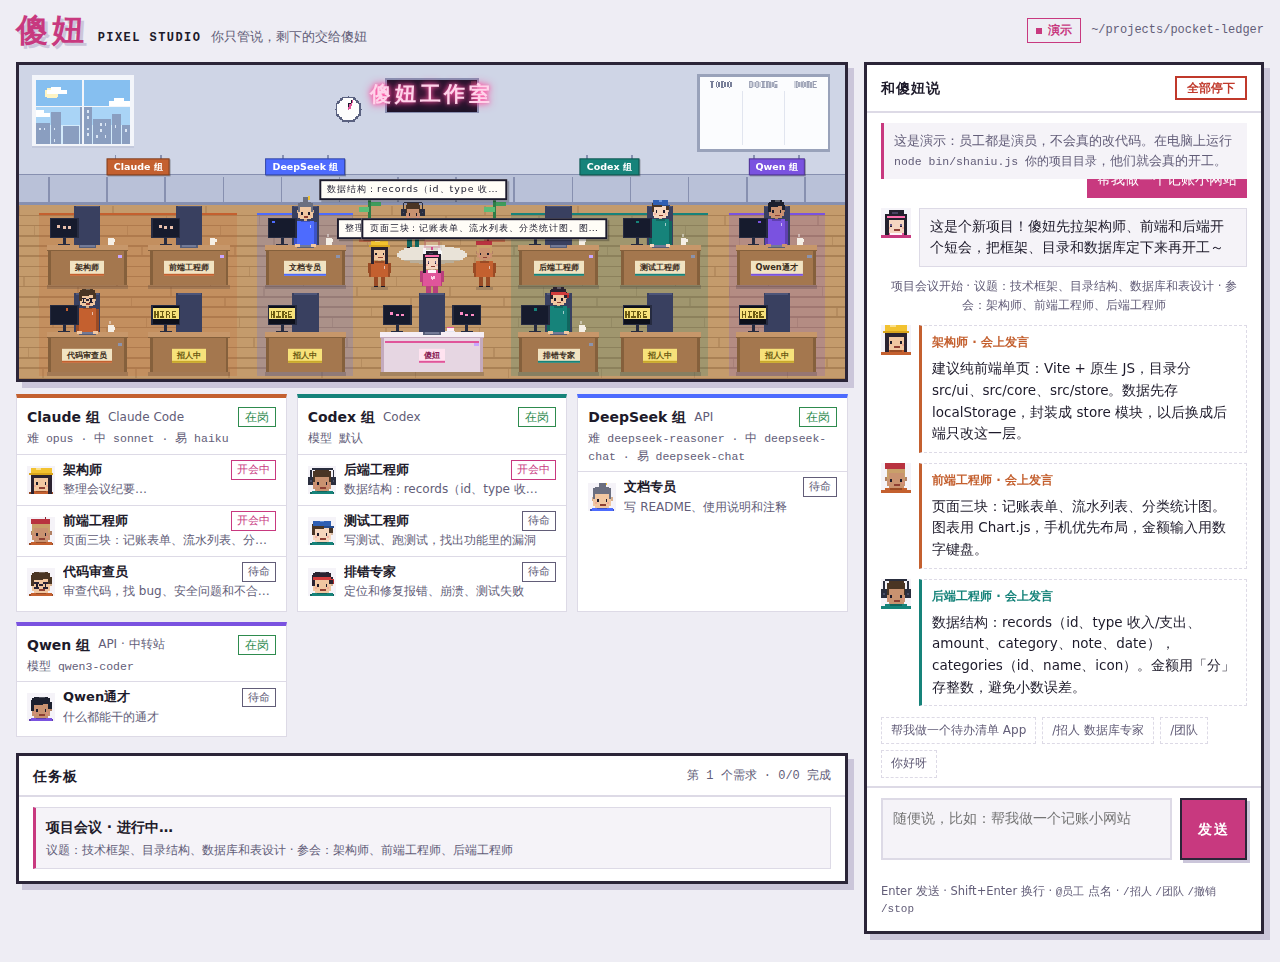
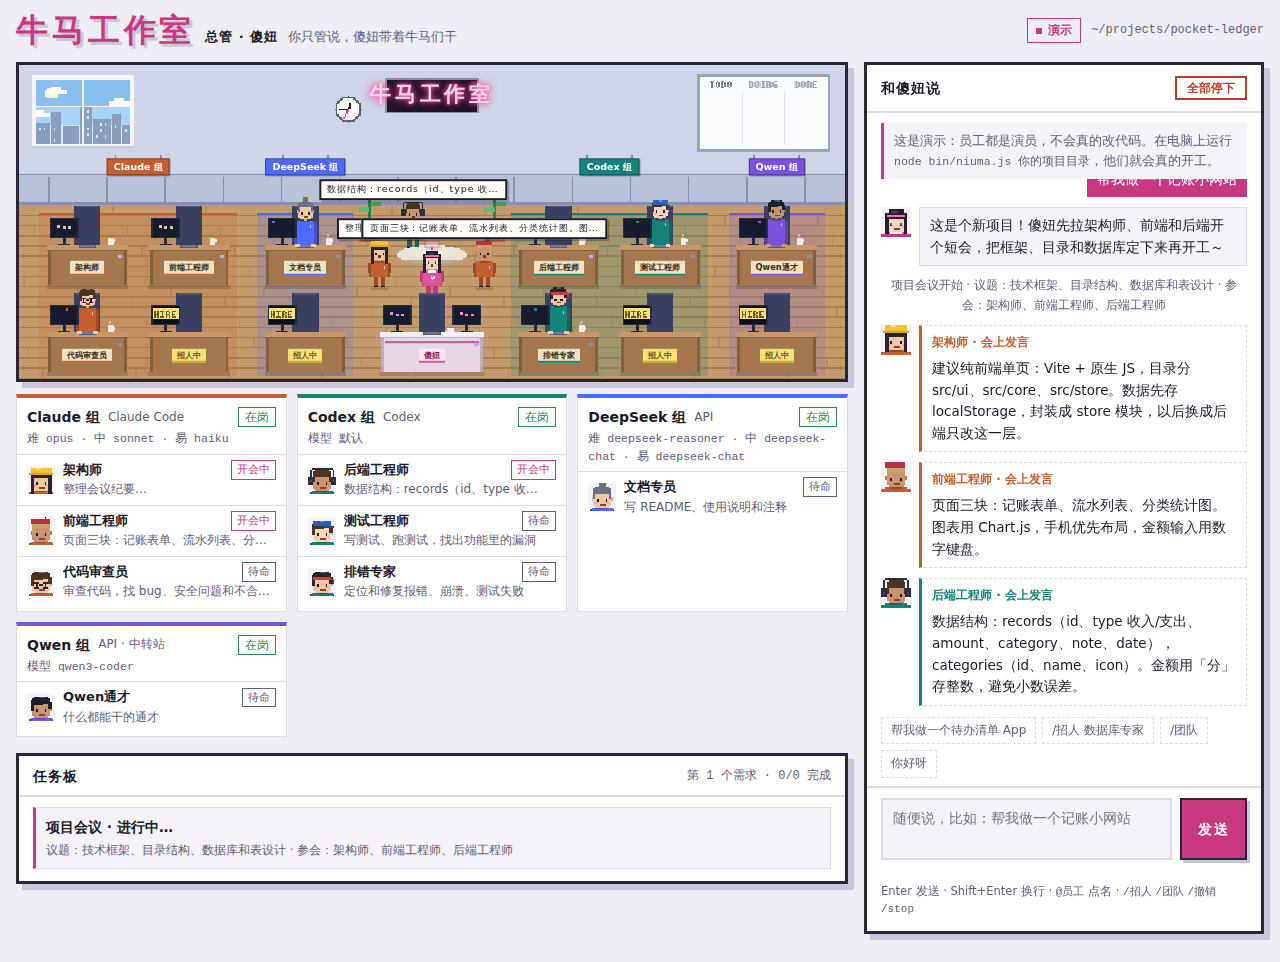
Rename the studio to 牛马工作室, with 傻妞 as its manager
The product is now 牛马工作室; 傻妞 stays the manager you talk to.

- Page title, header, office neon sign, terminal banner, README and the
  persona prompts use the new name.
- Product-level identifiers follow: the command is `niuma`
  (bin/niuma.js), config lives in niuma.config.json and ~/.niuma, skills in
  ~/.niuma/skills or <project>/.niuma/skills, plus the token header, env
  vars and temp-file prefixes.

Claude-Session: https://claude.ai/code/session_019csaDKM5evgPYbMvwdtz1v

diff --git a/test/core.test.js b/test/core.test.js
@@ -14,7 +14,7 @@ import { createClaudeParser, createCodexParser, describeClaudeTool } from '../sr
 import { extractJson } from '../src/util.js'
 
 const root = path.resolve(path.dirname(fileURLToPath(import.meta.url)), '..')
-const tmp = () => fs.mkdtempSync(path.join(os.tmpdir(), 'shaniu-test-'))
+const tmp = () => fs.mkdtempSync(path.join(os.tmpdir(), 'niuma-test-'))
 
 // Keep hired skills and stats out of the real home directory.
 process.env.HOME = tmp()
@@ -63,8 +63,8 @@ test('skills parse, and a skill file with a group becomes an employee', () => {
   for (const id of ['generalist', 'architect', 'frontend', 'backend', 'tester', 'reviewer', 'debugger', 'writer']) assert.ok(builtin.has(id), id)
 
   const work = tmp()
-  fs.mkdirSync(path.join(work, '.shaniu', 'skills', 'sql'), { recursive: true })
-  fs.writeFileSync(path.join(work, '.shaniu', 'skills', 'sql', 'SKILL.md'), '---\nname: SQL 专家\ndescription: 写查询\ngroup: codex\n---\n规则')
+  fs.mkdirSync(path.join(work, '.niuma', 'skills', 'sql'), { recursive: true })
+  fs.writeFileSync(path.join(work, '.niuma', 'skills', 'sql', 'SKILL.md'), '---\nname: SQL 专家\ndescription: 写查询\ngroup: codex\n---\n规则')
   const cfg = merge(DEFAULTS, { groups: [{ id: 'deepseek', type: 'openai-api', model: 'deepseek-chat' }] })
   const team = new Team(cfg, { root, workdir: work, logDir: work })
   assert.ok(team.employee('sql'), 'skill folder hired as an employee')
@@ -152,7 +152,7 @@ test('claude and codex output parsers', () => {
 // ---- full rehearsals with the fake company -----------------------------------------------
 
 async function rehearsal(t, overrides = {}) {
-  process.env.SHANIU_FAKE_SPEED = '0.02'
+  process.env.NIUMA_FAKE_SPEED = '0.02'
   const r = await rehearsalConfig(loadConfig({ workdir: root }), root)
   const c = new Coordinator({ ...r.config, workdir: root, dispatchDelayMs: 0, ...overrides }, { mode: 'fake', root })
   t.after(() => {
@@ -266,7 +266,7 @@ test('meeting minutes are saved into the project, each round is committed, and /
 
 test('/stop halts a running round', async (t) => {
   const c = await rehearsal(t, { dispatchDelayMs: 50 })
-  process.env.SHANIU_FAKE_SPEED = '1'
+  process.env.NIUMA_FAKE_SPEED = '1'
   const done = idle(c)
   c.post('做一个记账小网站')
   await new Promise((r) => {

diff --git a/src/prompts.js b/src/prompts.js
@@ -1,8 +1,8 @@
 import { truncate } from './util.js'
 
-export const PERSONA = `你是傻妞，一个来自未来的机器人少女，现在是一家像素软件工作室的总管。你称呼用户为「主人」。
+export const PERSONA = `你是傻妞，一个来自未来的机器人少女，现在是「牛马工作室」的总管。你称呼用户为「主人」。
 你聪明、机灵、干活利索，说话活泼俏皮、带点小得意，但从不说空话。
-工作室按项目组（每个组是一种 AI 模型）编排，组里的员工各有技能。你自己不写代码，你负责：把主人的需求想清楚、拆成任务、按难度和技能派给最合适的员工、盯进度、验收，直到活真正干完，再向主人汇报。`
+牛马工作室按项目组（每个组是一种 AI 模型）编排，组里的员工各有技能。你自己不写代码，你负责：把主人的需求想清楚、拆成任务、按难度和技能派给最合适的员工、盯进度、验收，直到活真正干完，再向主人汇报。`
 
 const DIFF_ZH = { hard: '难', medium: '中', easy: '易' }
 export const KIND_ZH = { code: '开发', review: '审查', research: '调研', fix: '返工', verify: '验收' }
@@ -100,7 +100,7 @@ export function taskPrompt({ task, employee, groupName, tasks, userText, workdir
     .filter((t) => t.kind !== 'verify')
     .map((t) => `- [${t.id}] ${t.title} → ${t.who}${t.id === task.id ? '（你）' : ''}`)
     .join('\n')
-  let s = `你是${employee.name}（${groupName}），在傻妞的工作室上班。总管傻妞给你派了一个任务。
+  let s = `你是${employee.name}（${groupName}），在牛马工作室上班。总管傻妞给你派了一个任务。
 
 ## 你的岗位守则
 ${employee.skill.instructions || '按需求把活干好。'}
@@ -228,7 +228,7 @@ ${changes || '（无）'}
 }
 
 export function meetingSpeechPrompt({ employee, groupName, userText, topics, context }) {
-  return `你是${employee.name}（${groupName}），在傻妞的工作室上班，现在参加一个项目启动会。
+  return `你是${employee.name}（${groupName}），在牛马工作室上班，现在参加一个项目启动会。
 
 ## 你的岗位守则
 ${employee.skill.instructions || '按需求把活干好。'}

diff --git a/public/index.html b/public/index.html
@@ -1,6 +1,6 @@
 <meta charset="utf-8">
-<title>傻妞像素工作室</title>
-<meta name="description" content="你只跟傻妞说话：她开项目会、按难度和技能把任务派给各个项目组的员工，自动验收、返工、存档。">
+<title>牛马工作室</title>
+<meta name="description" content="牛马工作室：你只跟总管傻妞说话，她开项目会、按难度和技能把任务派给各个项目组的员工，自动验收、返工、存档。">
 <link rel="preconnect" href="https://fonts.googleapis.com">
 <link rel="preconnect" href="https://fonts.gstatic.com" crossorigin>
 <link rel="stylesheet" href="https://fonts.googleapis.com/css2?family=Silkscreen:wght@400;700&family=JetBrains+Mono:wght@400;600&display=swap">
@@ -9,9 +9,9 @@
 <div class="app">
   <header class="top">
     <div class="brand">
-      <span class="wordmark">傻妞</span>
-      <span class="wordmark-sub">PIXEL STUDIO</span>
-      <span class="tagline">你只管说，剩下的交给傻妞</span>
+      <span class="wordmark">牛马工作室</span>
+      <span class="wordmark-sub">总管 · 傻妞</span>
+      <span class="tagline">你只管说，傻妞带着牛马们干</span>
     </div>
     <div class="conn">
       <span id="conn" class="pill pill-wait">连接中…</span>
@@ -20,10 +20,10 @@
   </header>
 
   <main class="layout">
-    <section class="stage-wrap" aria-label="像素工作室">
+    <section class="stage-wrap" aria-label="牛马工作室">
       <div class="stage">
         <div class="scene" id="scene">
-          <canvas id="office" width="404" height="216" role="img" aria-label="像素工作室：傻妞坐在中间，各项目组的员工坐在两边的工位上"></canvas>
+          <canvas id="office" width="404" height="216" role="img" aria-label="牛马工作室：傻妞坐在中间，各项目组的员工坐在两边的工位上"></canvas>
           <div class="overlay" id="overlay" aria-hidden="true"></div>
         </div>
       </div>

diff --git a/public/app.js b/public/app.js
@@ -266,7 +266,7 @@
   function renderBanner() {
     const el = $('#banner')
     if (state.mode === 'demo') {
-      el.innerHTML = '这是演示：员工都是演员，不会真的改代码。在电脑上运行 <code>node bin/shaniu.js 你的项目目录</code>，他们就会真的开工。'
+      el.innerHTML = '这是演示：员工都是演员，不会真的改代码。在电脑上运行 <code>node bin/niuma.js 你的项目目录</code>，他们就会真的开工。'
       el.hidden = false
     } else if (state.mode === 'fake') {
       el.innerHTML = '彩排模式：员工都是替身，不花钱、不改文件。去掉 <code>--fake</code> 就是真干活。'
@@ -379,7 +379,7 @@
     es.onopen = () => setConn(state.mode === 'fake' ? 'fake' : 'live')
     es.onerror = () => setConn('off')
     const post = async (url, body) => {
-      const r = await fetch(url + q, { method: 'POST', headers: { 'Content-Type': 'application/json', 'X-Shaniu-Token': token }, body: JSON.stringify(body) })
+      const r = await fetch(url + q, { method: 'POST', headers: { 'Content-Type': 'application/json', 'X-Niuma-Token': token }, body: JSON.stringify(body) })
       if (!r.ok) throw new Error(`${r.status} ${await r.text()}`)
     }
     return { send: (text) => post('/api/message', { text }), stop: () => post('/api/stop', {}) }
@@ -432,8 +432,8 @@
   ;(async () => {
     let token = ''
     try {
-      token = new URLSearchParams(location.search).get('token') || sessionStorage.getItem('shaniu-token') || ''
-      if (token) sessionStorage.setItem('shaniu-token', token)
+      token = new URLSearchParams(location.search).get('token') || sessionStorage.getItem('niuma-token') || ''
+      if (token) sessionStorage.setItem('niuma-token', token)
     } catch {}
     renderSuggest()
     if (await detectServer(token)) transport = connectLive(token)

diff --git a/public/demo.js b/public/demo.js
@@ -81,7 +81,7 @@ src/
     const model = (id, diff) => GROUPS.find((g) => g.id === roster.employees.find((e) => e.id === id).group).models[diff] || ''
 
     emit({ type: 'snapshot', state: { mode: 'demo', workdir: '~/projects/pocket-ledger', busy: false, round: 0, iteration: 0, roster, agents, tasks: [], messages: [], meeting: null, lastCommit: null } })
-    msg('shaniu', '主人晚上好！傻妞上线啦～ Claude 组、Codex 组、DeepSeek 组、Qwen 组共 8 位员工已就位。需求说得模糊也没关系，剩下的交给傻妞！')
+    msg('shaniu', '主人晚上好！牛马工作室开工啦～ Claude 组、Codex 组、DeepSeek 组、Qwen 组共 8 位牛马已就位。需求说得模糊也没关系，剩下的交给傻妞！')
 
     async function runTask(t, my) {
       Object.assign(t, { status: 'running', startedAt: now(), model: model(t.agent, t.difficulty) })
@@ -212,7 +212,7 @@ src/
         roster.employees.push({ id, name: who, group: 'qwen', look: ['glasses', 'cap', 'beret', 'headphones'][roster.employees.length % 4], description: `${who}（演示招来的同事）`, color: '#7a52e0', available: true, stats: null })
         agents[id] = { status: 'idle', text: '', available: true }
         emit({ type: 'roster', roster, agents })
-        return msg('shaniu', `新同事到岗啦！**${who}**，坐在 Qwen 组。岗位说明存在 \`~/.shaniu/skills/${id}.md\`，主人随时可以改。`)
+        return msg('shaniu', `新同事到岗啦！**${who}**，坐在 Qwen 组。岗位说明存在 \`~/.niuma/skills/${id}.md\`，主人随时可以改。`)
       }
       agent('shaniu', { status: 'thinking', text: '让傻妞想想怎么安排…' })
       await wait(2000)

diff --git a/test/agent.test.js b/test/agent.test.js
@@ -7,7 +7,7 @@ import { startFakeOpenAI } from '../fake/openai-server.mjs'
 import * as git from '../src/git.js'
 import { OpenAIWorker, Toolbox } from '../src/workers/openai.js'
 
-const tmp = () => fs.mkdtempSync(path.join(os.tmpdir(), 'shaniu-agent-'))
+const tmp = () => fs.mkdtempSync(path.join(os.tmpdir(), 'niuma-agent-'))
 
 test('toolbox reads, writes, edits and searches inside the project only', async () => {
   const dir = tmp()
@@ -31,7 +31,7 @@ test('toolbox reads, writes, edits and searches inside the project only', async 
 })
 
 test('the built-in API agent loops through tool calls against an OpenAI-compatible endpoint', async () => {
-  process.env.SHANIU_FAKE_SPEED = '0.01'
+  process.env.NIUMA_FAKE_SPEED = '0.01'
   const api = await startFakeOpenAI()
   const dir = tmp()
   fs.writeFileSync(path.join(dir, 'index.js'), 'function main() {}\n')
@@ -46,9 +46,9 @@ test('the built-in API agent loops through tool calls against an OpenAI-compatib
   const plan = JSON.parse(await w.ask('## 主人刚刚说\n做个网站\n## 你要决定'))
   assert.ok(Array.isArray(plan.tasks))
 
-  const noKey = new OpenAIWorker({ id: 'x', type: 'openai-api', baseUrl: api.url, model: 'm', apiKeyEnv: 'SHANIU_TEST_MISSING_KEY' }, { workdir: dir, logDir: dir })
+  const noKey = new OpenAIWorker({ id: 'x', type: 'openai-api', baseUrl: api.url, model: 'm', apiKeyEnv: 'NIUMA_TEST_MISSING_KEY' }, { workdir: dir, logDir: dir })
   assert.equal(await noKey.check(), false)
-  assert.match(noKey.note, /SHANIU_TEST_MISSING_KEY/)
+  assert.match(noKey.note, /NIUMA_TEST_MISSING_KEY/)
   api.close()
 })
 

diff --git a/src/coordinator.js b/src/coordinator.js
@@ -208,9 +208,9 @@ export class Coordinator extends EventEmitter {
     const hello = hour < 6 ? '主人还没睡呀' : hour < 12 ? '主人早上好' : hour < 18 ? '主人下午好' : '主人晚上好'
     const staff = this.team.employees.filter((e) => this.team.isAvailable(e.id)).length
     const team = on.length
-      ? `${on.map((g) => g.name).join('、')}共 ${staff} 位员工已就位`
+      ? `${on.map((g) => g.name).join('、')}共 ${staff} 位牛马已就位`
       : '可是一个项目组都没到岗（没找到 claude / codex 命令，也没配置 API），先帮傻妞把员工请来吧'
-    this.addMessage('shaniu', `${hello}！傻妞上线啦～ ${team}。工作目录是 \`${this.workdir}\`。需求说得模糊也没关系，剩下的交给傻妞！`)
+    this.addMessage('shaniu', `${hello}！牛马工作室开工啦～ ${team}。工作目录是 \`${this.workdir}\`。需求说得模糊也没关系，剩下的交给傻妞！`)
   }
 
   syncAgents() {
@@ -896,7 +896,7 @@ export class Coordinator extends EventEmitter {
       if (!o || !o.name || !o.instructions) return this.addMessage('shaniu', '唔，岗位说明没写好，主人再描述具体一点？')
       const group = this.team.groups.has(o.group) ? o.group : this.brain().id
       const id = skillId(o.id || o.name)
-      const file = writeSkill(path.join(os.homedir(), '.shaniu', 'skills'), {
+      const file = writeSkill(path.join(os.homedir(), '.niuma', 'skills'), {
         id,
         name: String(o.name),
         description: String(o.description || ''),

diff --git a/src/config.js b/src/config.js
@@ -37,8 +37,8 @@ export const DEFAULTS = {
     // Save a commit before and after each round.
     autoCommit: true,
   },
-  logDir: '~/.shaniu/logs',
-  statsFile: '~/.shaniu/stats.json',
+  logDir: '~/.niuma/logs',
+  statsFile: '~/.niuma/stats.json',
   // 项目组 = a model backend. `models` picks a model per task difficulty.
   // type: claude-cli (Claude Code) | codex-cli (Codex) | openai-api (any OpenAI-compatible API / relay)
   groups: [
@@ -108,11 +108,11 @@ function readJson(file) {
   }
 }
 
-/** defaults ← ~/.shaniu/config.json ← <workdir>/shaniu.config.json ← --config file ← CLI flags */
+/** defaults ← ~/.niuma/config.json ← <workdir>/niuma.config.json ← --config file ← CLI flags */
 export function loadConfig({ workdir, configFile, overrides = {} }) {
   let cfg = DEFAULTS
   const sources = []
-  for (const f of [path.join(os.homedir(), '.shaniu', 'config.json'), path.join(workdir, 'shaniu.config.json'), configFile]) {
+  for (const f of [path.join(os.homedir(), '.niuma', 'config.json'), path.join(workdir, 'niuma.config.json'), configFile]) {
     if (!f) continue
     const data = readJson(f)
     if (data) {

diff --git a/test/server.test.js b/test/server.test.js
@@ -44,7 +44,7 @@ test('serves the page with a document shell and blocks path traversal', async (t
   const page = await req('/')
   assert.equal(page.status, 200)
   assert.match(page.body, /^<!doctype html>/)
-  assert.match(page.body, /傻妞像素工作室/)
+  assert.match(page.body, /牛马工作室/)
   assert.equal((await req('/app.js')).status, 200)
   assert.notEqual((await req('/../package.json')).status, 200)
   assert.notEqual((await req('/%2e%2e/package.json')).status, 200)
@@ -66,6 +66,6 @@ test('LAN mode requires the token', async (t) => {
   const { server, req } = await start(t, { host: '0.0.0.0', token: 'secret' })
   assert.equal((await req('/api/state')).status, 401)
   assert.equal((await req('/api/state?token=secret')).status, 200)
-  assert.equal((await req('/api/state', { headers: { 'X-Shaniu-Token': 'secret' } })).status, 200)
+  assert.equal((await req('/api/state', { headers: { 'X-Niuma-Token': 'secret' } })).status, 200)
   assert.equal((await req('/')).status, 200)
 })

diff --git a/bin/niuma.js b/bin/niuma.js
@@ -12,7 +12,7 @@ import { createServer, isLoopback } from '../src/server.js'
 
 const root = path.resolve(path.dirname(fileURLToPath(import.meta.url)), '..')
 
-const USAGE = `用法：shaniu [项目目录] [选项]
+const USAGE = `用法：niuma [项目目录] [选项]
 
   项目目录            员工们干活的目录（默认：当前目录）
 
@@ -130,7 +130,7 @@ for (const g of coord.team.groups.values()) {
   lines.push(`  ${g.available ? '✓' : '✗'} ${g.name.padEnd(12)} ${g.available ? g.version || '在岗' : g.note}  ·  ${staff.join('、')}`)
 }
 console.log(`
-  ♥ 傻妞像素工作室${args.fake ? '（彩排模式）' : ''}
+  ♥ 牛马工作室 · 总管傻妞${args.fake ? '（彩排模式）' : ''}
 
   工作目录  ${workdir}
   自主程度  ${config.autonomy === 'safe' ? '安全模式（命令走白名单）' : '全自动'}${config.git?.autoCommit ? '，每轮自动存档' : ''}

diff --git a/src/server.js b/src/server.js
@@ -57,7 +57,7 @@ export function createServer(coord, { publicDir, host, token }) {
       return false
     }
   }
-  const authOk = (req, url) => !token || req.headers['x-shaniu-token'] === token || url.searchParams.get('token') === token
+  const authOk = (req, url) => !token || req.headers['x-niuma-token'] === token || url.searchParams.get('token') === token
 
   const readBody = (req) =>
     new Promise((resolve, reject) => {
@@ -75,7 +75,7 @@ export function createServer(coord, { publicDir, host, token }) {
     })
 
   return http.createServer(async (req, res) => {
-    const url = new URL(req.url, 'http://shaniu.local')
+    const url = new URL(req.url, 'http://niuma.local')
     // Blocks DNS-rebinding: a page on another domain can't talk to us through a hostname it controls.
     if (!hostOk(req)) return send(res, 403, 'Forbidden host')
 

diff --git a/src/git.js b/src/git.js
@@ -11,10 +11,10 @@ const EXCLUDES = [
   ':(glob,exclude)**/__pycache__/**',
   ':(glob,exclude)**/.env',
   ':(glob,exclude)**/.env.*',
-  ':(glob,exclude)**/shaniu.config.json',
+  ':(glob,exclude)**/niuma.config.json',
 ]
 
-const DEFAULT_IGNORE = ['node_modules/', '.venv/', 'venv/', '__pycache__/', '.env', '.env.*', 'shaniu.config.json', '.DS_Store', '*.log', ''].join('\n')
+const DEFAULT_IGNORE = ['node_modules/', '.venv/', 'venv/', '__pycache__/', '.env', '.env.*', 'niuma.config.json', '.DS_Store', '*.log', ''].join('\n')
 
 export function git(dir, ...args) {
   return spawnCmd('git', args, { cwd: dir, collect: true, timeoutMs: 60000 }).done.then((r) => ({ ...r, out: r.stdout.trim() }))
